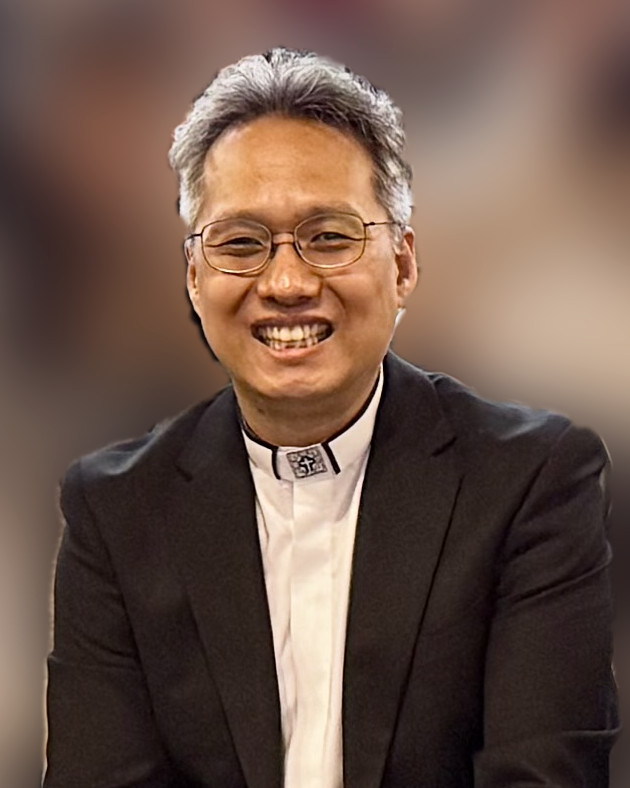
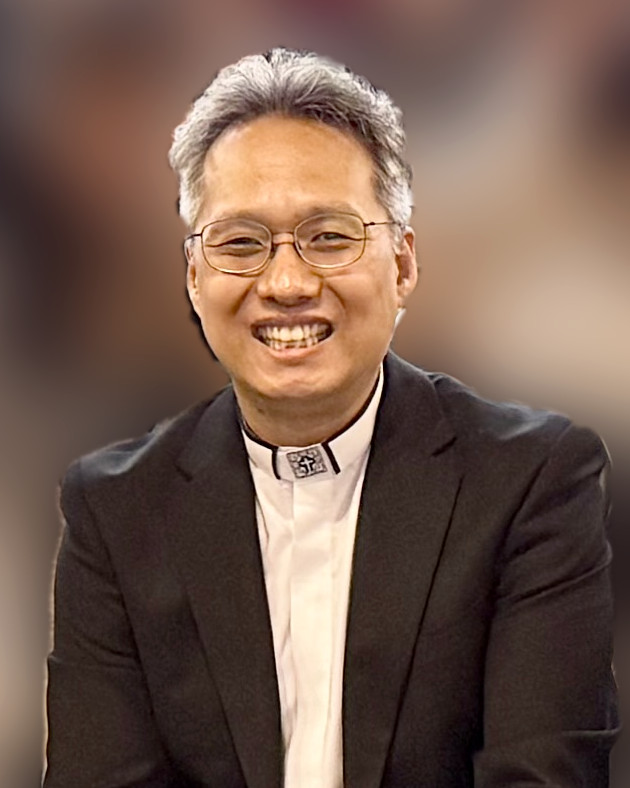
인사말 사진 얼굴을 밝게 보정
Claude-Session: https://claude.ai/code/session_01PErPgGHZk86DN3bD6bQ641

Changed region(s): [[0.2714, 0.0609, 0.6635, 0.4873], [0.573, 0.4569, 0.6032, 0.4873]]

diff --git a/greeting.html b/greeting.html
@@ -50,7 +50,7 @@
   <section id="greeting">
     <div class="wrap greet">
       <div class="greet-head">
-        <figure class="greet-photo"><img src="images/pastor.jpg" alt="임영호 담임목사" width="630" height="788" decoding="async"></figure>
+        <figure class="greet-photo"><img src="images/pastor.jpg?v=2" alt="임영호 담임목사" width="630" height="788" decoding="async"></figure>
         <div class="sec-head">
           <p class="eyebrow">담임목사 인사말</p>
           <h2>이 교회의 주인은 하나님이십니다</h2>
